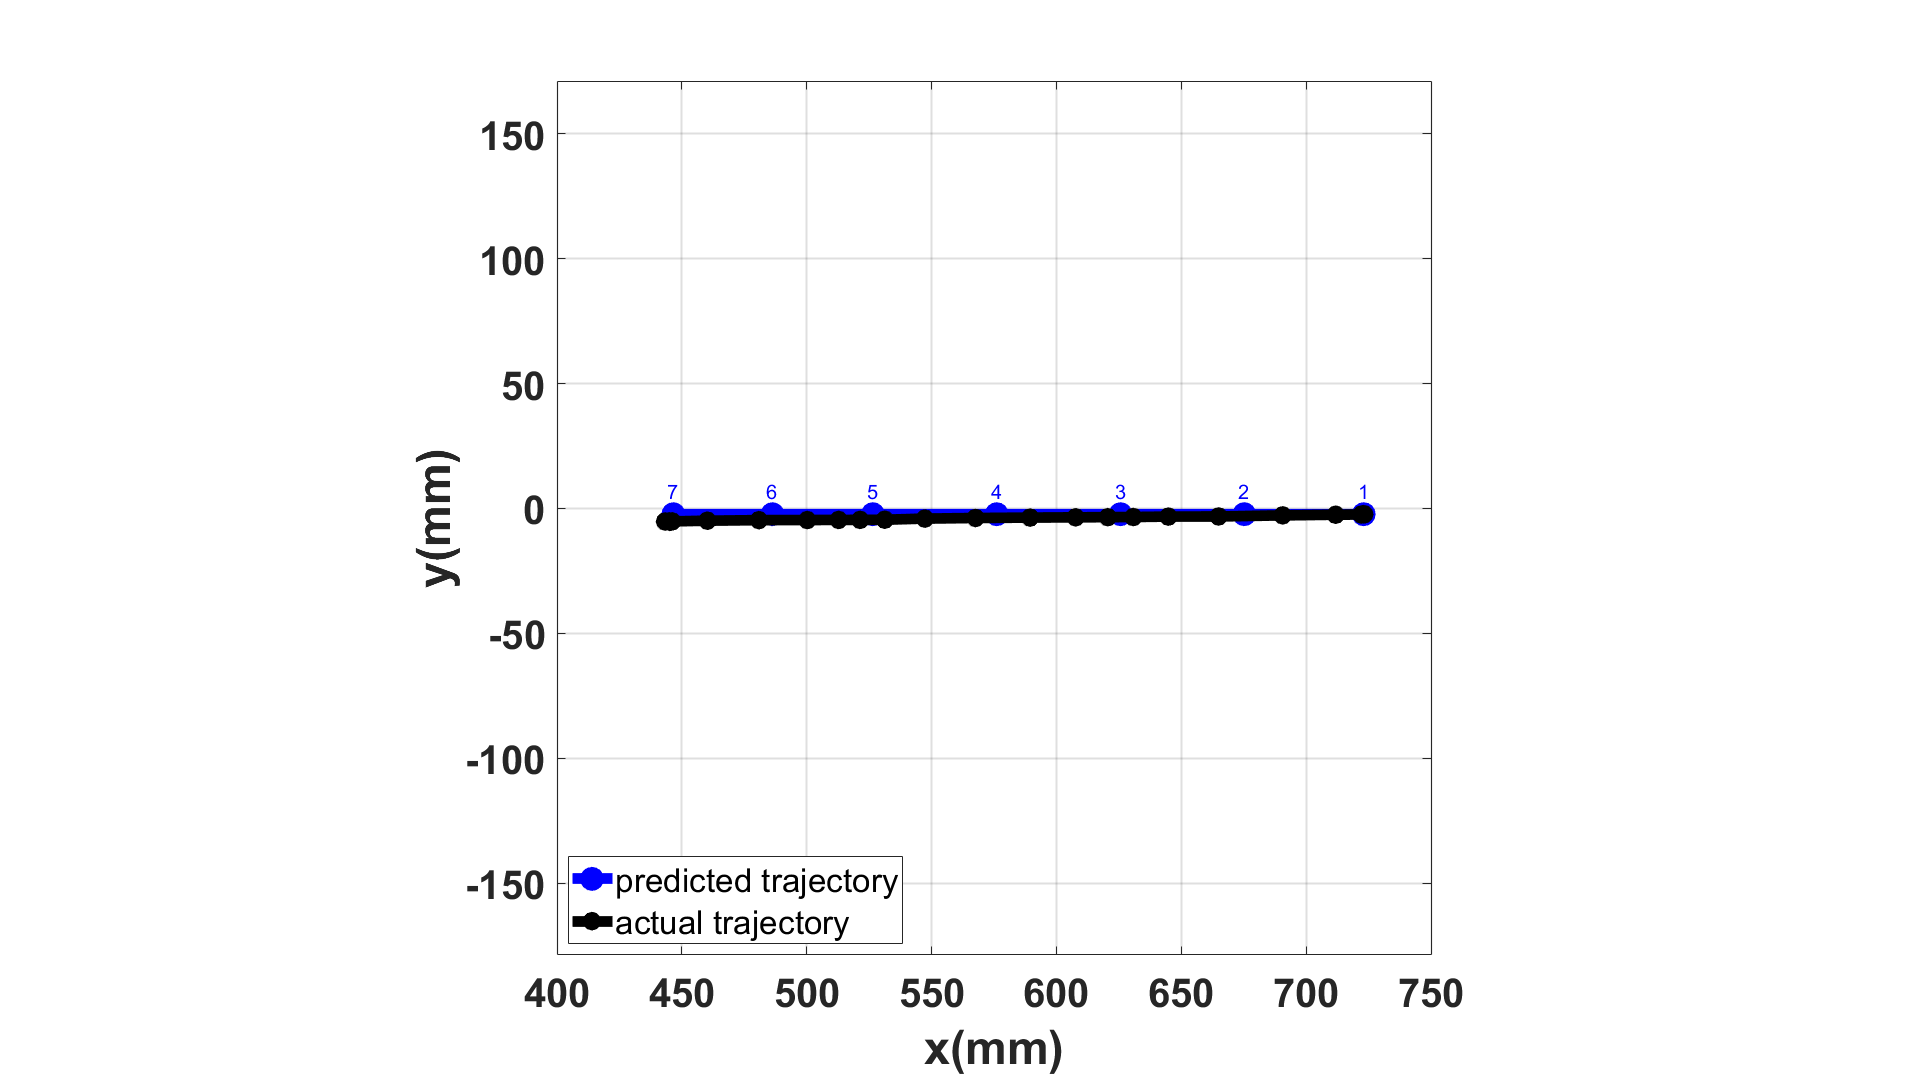
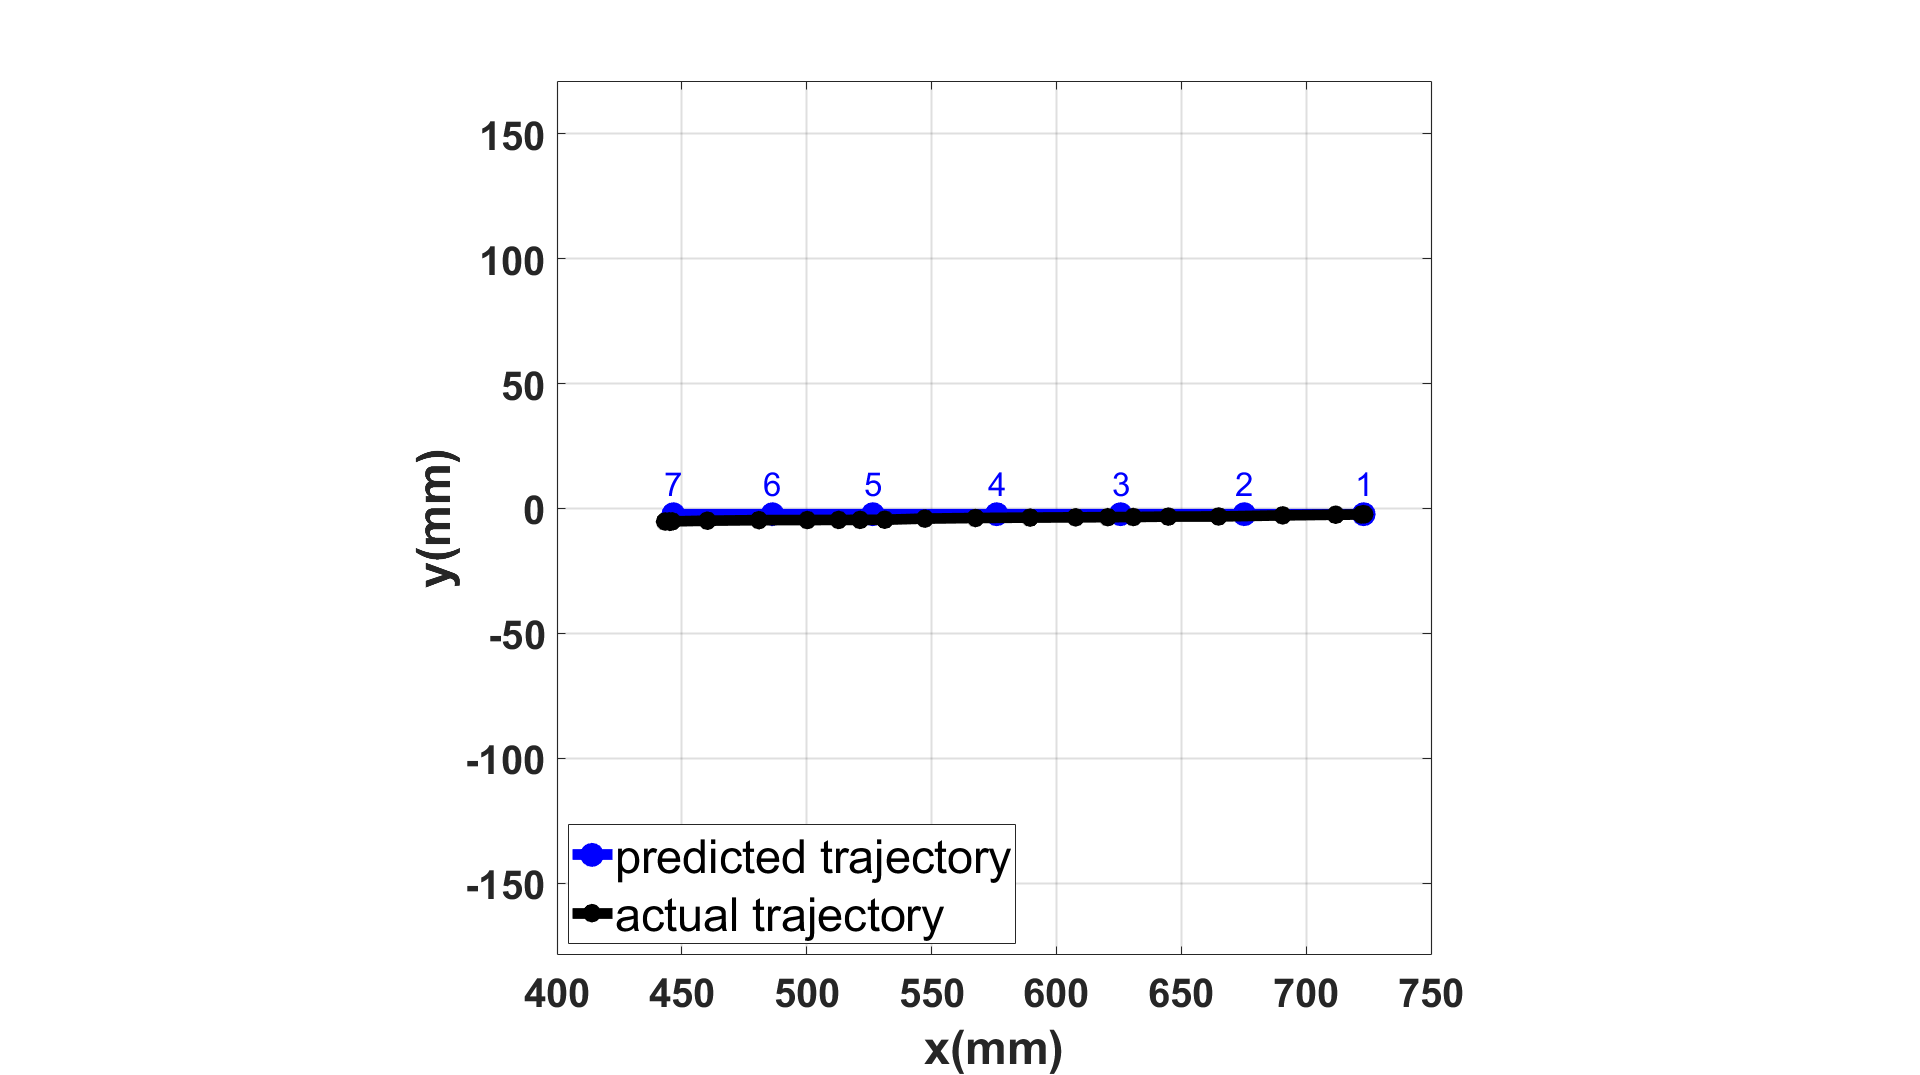
update pulling_a_drawer font sizes

diff --git a/real_robot_data_plots_and_demos/pulling_a_drawer/ee_position_and_joint_states_plotter.m b/real_robot_data_plots_and_demos/pulling_a_drawer/ee_position_and_joint_states_plotter.m
@@ -162,7 +162,7 @@ end
 
 % Joint state column headers
 js_end_index = 50; % specify end to truncate saturated readings
-joint_names = {'arm0_shoulder_yaw', 'arm0_shoulder_pitch', 'arm0_elbow_pitch', 'arm0_elbow_roll', 'arm0_wrist_pitch', 'arm0_wrist_roll'};
+joint_names = {'shoulder_yaw', 'shoulder_pitch', 'elbow_pitch', 'elbow_roll', 'wrist_pitch', 'wrist_roll'};
 
 % Extract data and plot
 for i = 1:length(joint_names)
@@ -179,7 +179,7 @@ grid on
 % Set fontsizes for various plot parameters
 title_fontsize = 50;
 label_fontsize = 50;
-legend_fontsize = 30;
+legend_fontsize = 40;
 tick_fontsize = 50;
 grid_lw = 1.5;
 
@@ -204,8 +204,8 @@ ax_joint_states.GridLineWidth = grid_lw;
 
 % Set legend position
 legend_position = ax_joint_states.Legend.Position;
-shift_amount_x = 0.285; 
-shift_amount_y = 0.14; 
+shift_amount_x = 0.285-0.02; 
+shift_amount_y = 0.252; 
 ax_joint_states.Legend.Position = [legend_position(1) + shift_amount_x, legend_position(2)+ shift_amount_y, legend_position(3), legend_position(4)];
 
 
@@ -333,7 +333,7 @@ ax_ee_traj_final = subplot(1, 1, 1, 'Parent', fig4);
 plot(ax_ee_traj_final, df_pred{:, 'PredEEX'} * 1000, ...
     df_pred{:, 'PredEEY'} * 1000, ...
     'b-o', 'LineWidth', 8, 'MarkerSize', 10, 'DisplayName', 'predicted trajectory');
-point_label_font_size = 15;
+point_label_font_size = 25;
 point_label_offset_y = 4;
 point_labels = 1:1:length(df_pred{:, 'PredEEX'} );
 labelpoints(df_pred{:, 'PredEEX'} * 1000, ...
@@ -372,7 +372,7 @@ ax_ee_traj_final.Legend.Location = "southwest";
 % Set fontsizes for various plot parameters
 title_fontsize = 35;
 label_fontsize = 35;
-legend_fontsize = 25;
+legend_fontsize = 35;
 tick_fontsize = 30;
 grid_lw = 1.5;
 
